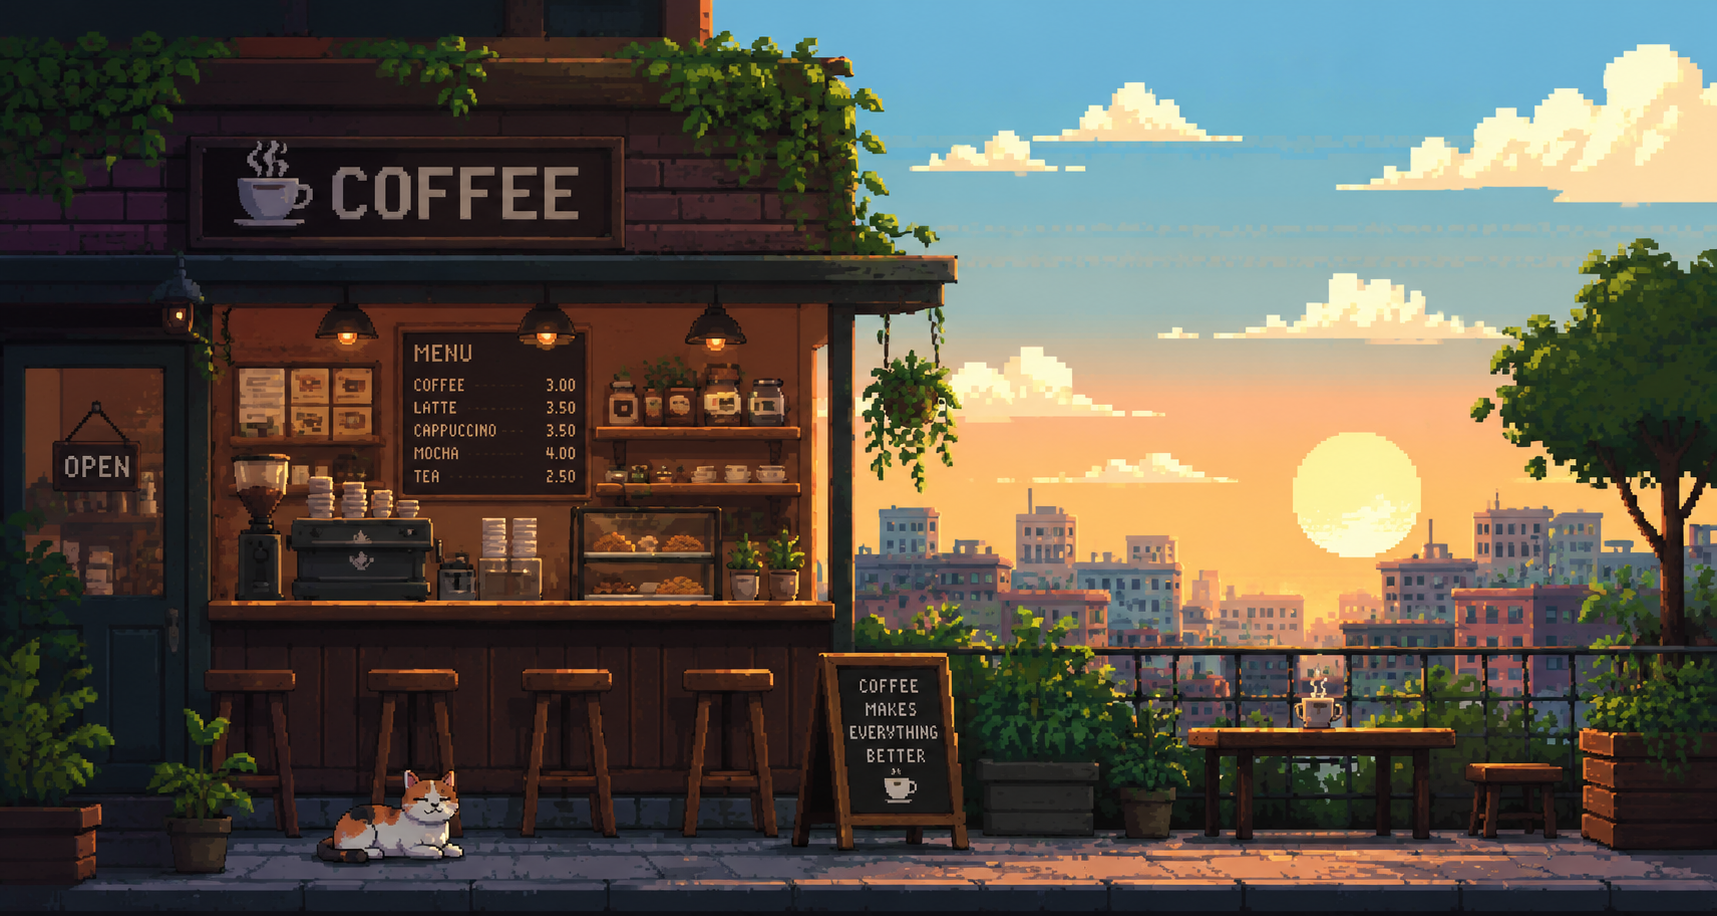
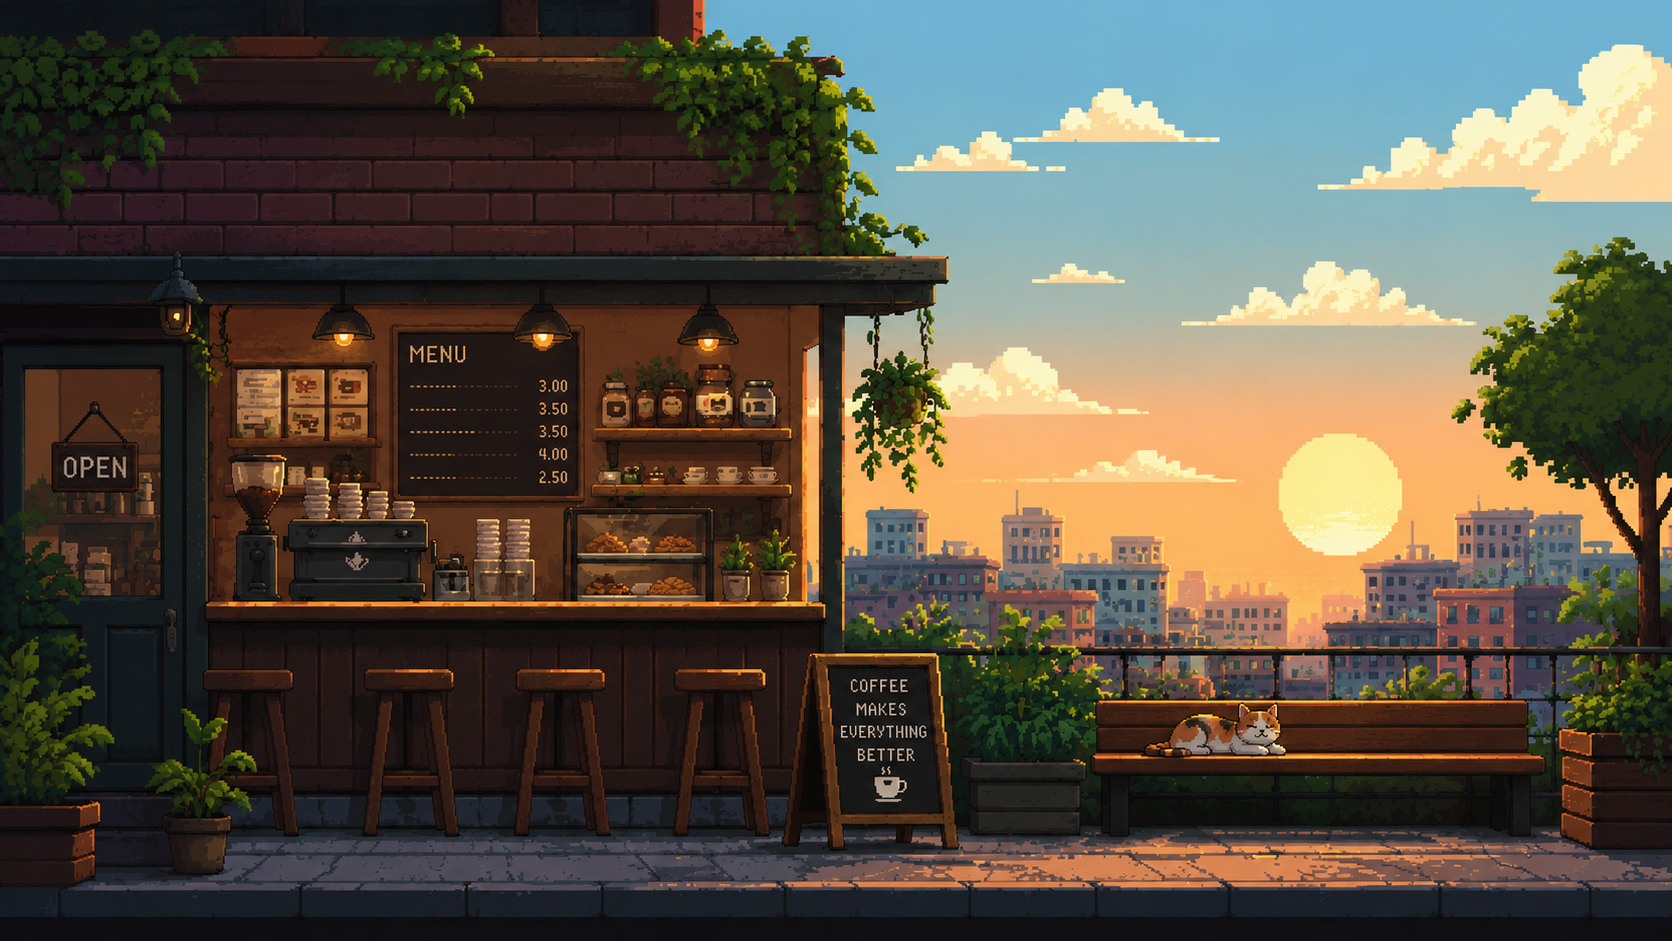
Add tempo content & styles for menu

diff --git a/src/styles.css b/src/styles.css
@@ -6,6 +6,7 @@
 
 :root {
   --bg-color: rgba(0, 0, 0, 0.8);
+  --white: #ffffff;
 }
 
 html {
@@ -21,14 +22,14 @@ body {
   background-position: center;
   background-repeat: no-repeat;
   background-size: cover;
-  color: white;
-  font-size: 1.5rem;
+  background-attachment: fixed;
+  color: var(--white);
 }
 
 /* === HEADER === */
 
 header {
-  padding: 3rem;
+  padding: 2rem 5rem;
   display: flex;
   align-items: center;
   justify-content: space-between;
@@ -36,7 +37,15 @@ header {
 
 nav {
   display: flex;
-  gap: 1.5rem;
+  gap: 2.5rem;
+}
+
+button {
+  font-size: 1.8rem;
+  font-weight: 600;
+  border: none;
+  background-color: rgba(0, 0, 0, 0);
+  color: var(--white);
 }
 
 /* === CONTENT === */
@@ -48,25 +57,66 @@ nav {
   align-items: center;
 }
 
+/* for menu */
+
 .menu {
-  width: 50rem;
-  height: 50rem;
+  display: grid;
+  grid-template-columns: repeat(2, 40rem);
+  grid-template-rows: repeat(2, 25rem);
+  gap: 3rem;
+}
+
+.card {
+  padding: 3rem;
   background: var(--bg-color);
+  border-radius: 1rem;
   display: flex;
-  justify-content: center;
   align-items: center;
-  font-size: 3rem;
+  gap: 1.5rem;
+}
+
+.card img {
+  width: 10rem;
+}
+
+.prod-name {
+  font-size: 2.5rem;
   font-weight: 600;
+}
+
+.card div p:nth-child(2) {
+  font-size: 1.5rem;
+}
+
+.card div {
+  text-align: center;
+  display: flex;
+  flex-direction: column;
+  gap: 2rem;
 }
 
 /* === FOOTER === */
 
+#github-logo {
+  width: 3rem;
+}
+
+#github-logo:hover {
+  transform: scale(1.05);
+}
+
 footer {
-  padding: 2rem;
+  padding: 1rem;
+  font-size: 1.8rem;
   display: flex;
   justify-content: center;
   align-items: center;
   gap: 1rem;
+}
+
+footer p a {
+  text-decoration: none;
+  color: var(--white);
 }
 
 /* === GLOBAL STYLES === */
@@ -74,8 +124,4 @@ footer {
 header,
 footer {
   background: var(--bg-color);
-}
-
-button {
-  font-size: inherit;
 }

diff --git a/src/template.html b/src/template.html
@@ -16,7 +16,57 @@
       </nav>
     </header>
 
-    <div id="content"></div>
+    <div id="content">
+      <div class="menu">
+        <div class="card">
+          <img src="./assets/dummy.png" alt="Latte image" />
+
+          <div>
+            <p class="prod-name">LATTE</p>
+            <p>
+              Lorem ipsum dolor sit amet consectetur adipisicing elit. Natus
+              consectetur nemo totam
+            </p>
+          </div>
+        </div>
+
+        <div class="card">
+          <img src="./assets/dummy.png" alt="Cappuccino image" />
+
+          <div>
+            <p class="prod-name">CAPPUCCINO</p>
+            <p>
+              Lorem ipsum dolor sit amet consectetur adipisicing elit. Natus
+              consectetur nemo totam
+            </p>
+          </div>
+        </div>
+
+        <div class="card">
+          <img src="./assets/dummy.png" alt="Mocha image" />
+
+          <div>
+            <p class="prod-name">MOCHA</p>
+            <p>
+              Lorem ipsum dolor sit amet consectetur adipisicing elit. Natus
+              consectetur nemo totam
+            </p>
+          </div>
+        </div>
+
+        <div class="card">
+          <img src="./assets/dummy.png" alt="Tea image" />
+
+          <div>
+            <p class="prod-name">TEA</p>
+            <p>
+              Lorem ipsum dolor sit amet consectetur adipisicing elit. Natus
+              consectetur nemo totam
+            </p>
+          </div>
+        </div>
+      </div>
+    </div>
 
     <footer>
       <p>
@@ -29,7 +79,10 @@
       <a
         href="https://github.com/markjasperrojas/restaurant-page"
         target="_blank"
-        ><img alt="Github logo" id="github-logo"
+        ><img
+          src="./assets/github-light.png"
+          alt="Github logo"
+          id="github-logo"
       /></a>
     </footer>
   </body>

diff --git a/src/menu.js b/src/menu.js
@@ -1,12 +1,1 @@
-export function createAndRenderMenu() {
-  content.innerHTML = "";
-
-  const div = document.createElement("div");
-  const p = document.createElement("p");
-
-  div.classList.add("menu");
-  p.textContent = "MENU!";
-
-  div.appendChild(p);
-  content.appendChild(div);
-}
+export function createAndRenderMenu() {}